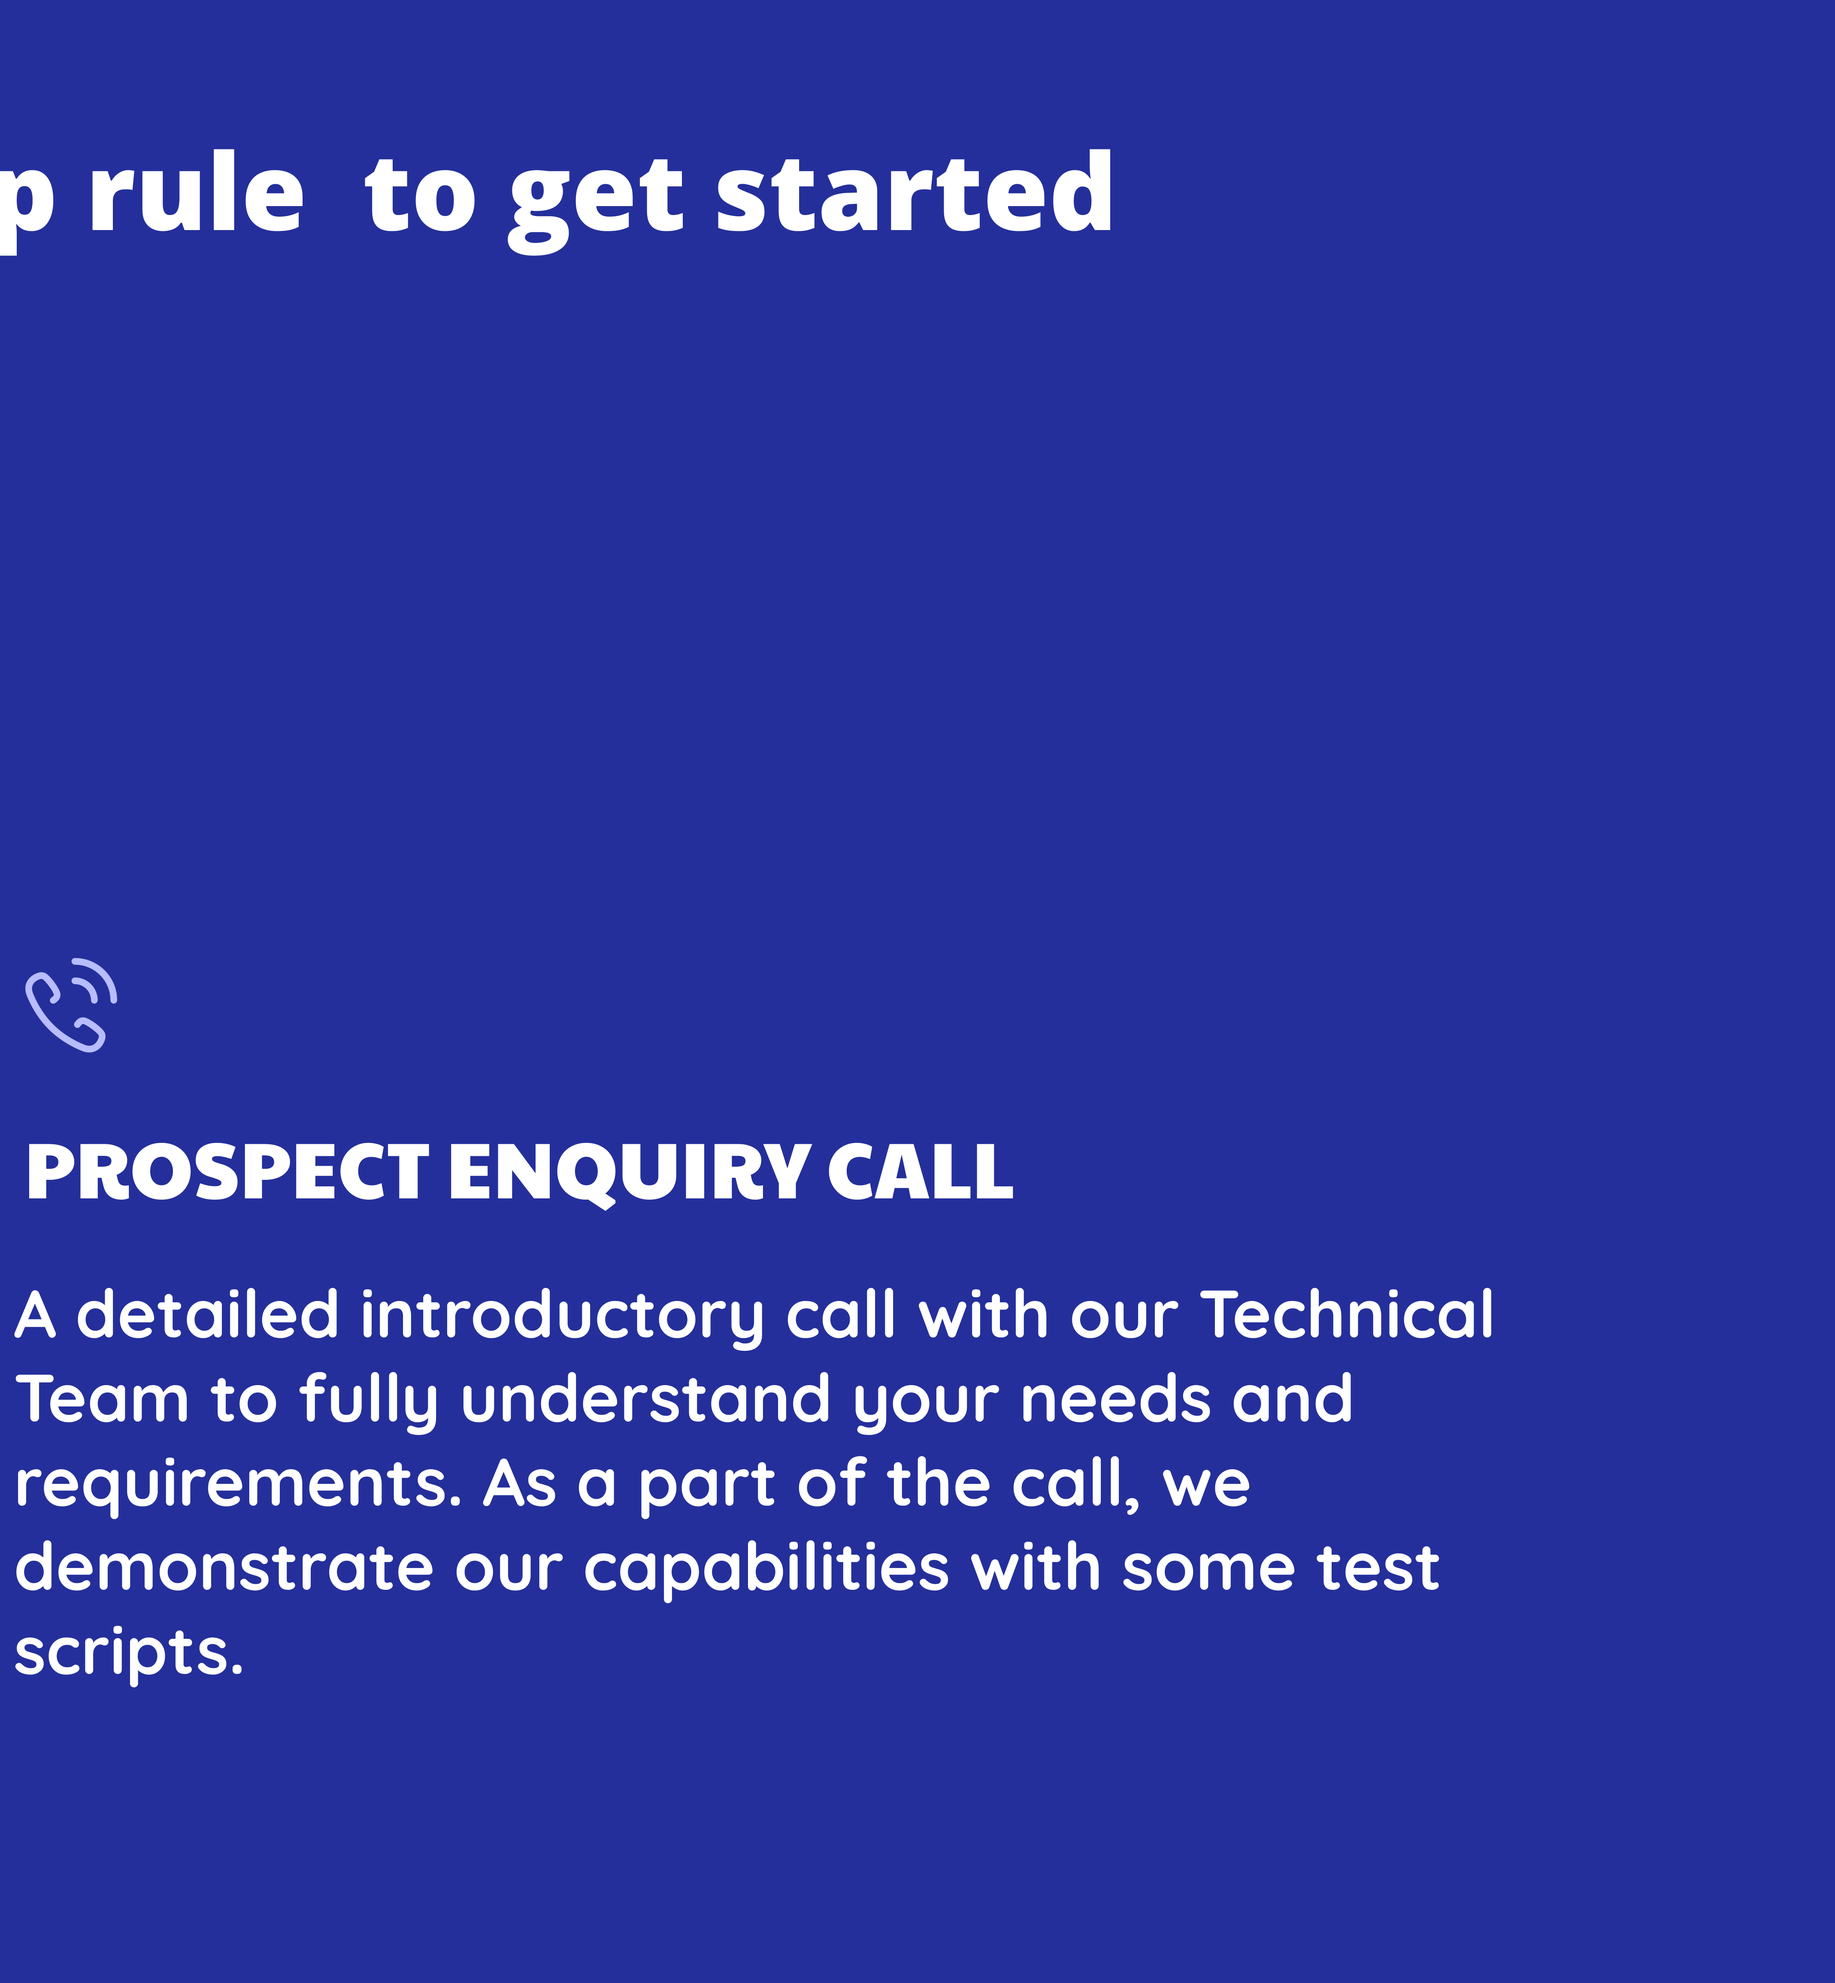
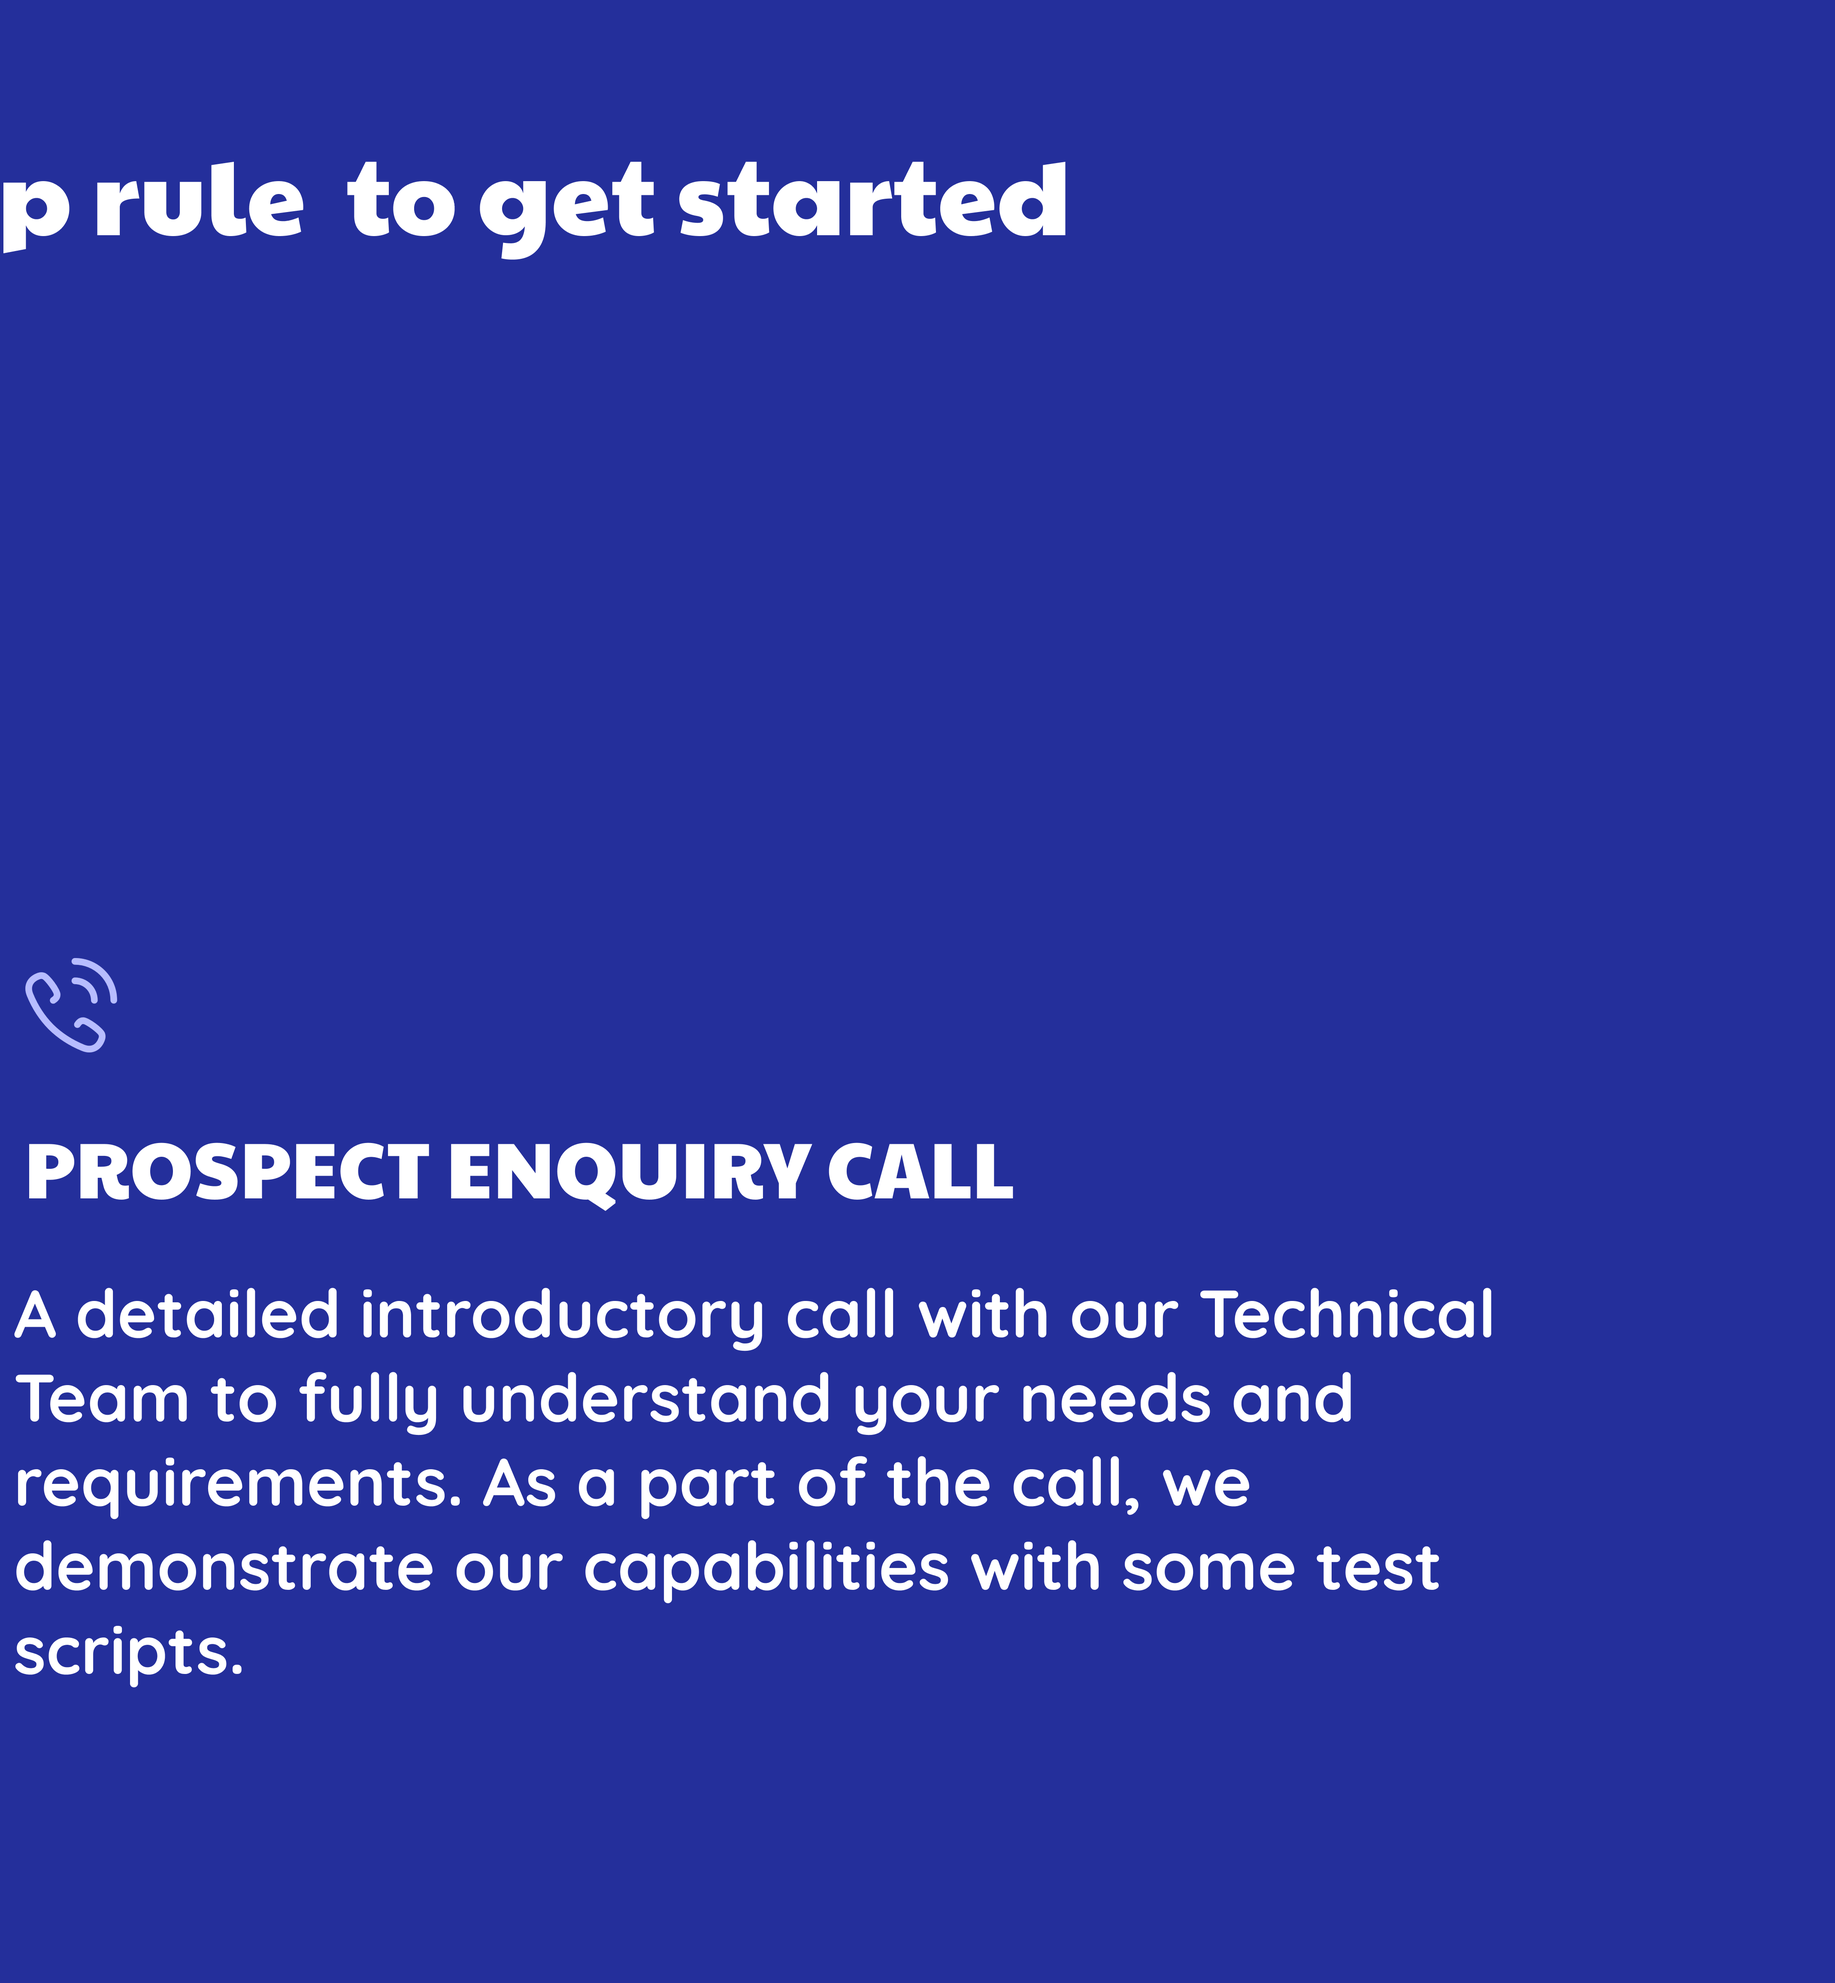
testing page

Changed region(s): [[0.1866, 0.0623, 0.6221, 0.1247], [0.0, 0.0623, 0.1555, 0.1247]]

diff --git a/themes/he/layouts/_default/testing-services.html b/themes/he/layouts/_default/testing-services.html
@@ -9,8 +9,8 @@
           <img loading="lazy" class="w-100" src="{{ .Params.section1.image | absURL }}" alt="Testing-services" />
         </div>
       </div>
-      <div class="col-12 col-md-5 my-md-auto my-4" data-aos="fade-in" data-aos-delay="300" data-aos-duration="1000">
-        <h2 class="section-title">{{ .Params.section1.heading }}</h2>
+      <div class="col-12 col-md-6 my-md-auto my-4" data-aos="fade-in" data-aos-delay="300" data-aos-duration="1000">
+                <h2 class="section-title">{{ .Params.section1.heading }}</h2>
         <p class="my-2">{{ .Params.section1.content }}</p>
         <button class="btn btn-secondary my-3">Join Our Team</button>
       </div>
@@ -189,10 +189,6 @@
     /* ts - test services */
     #footer-top-section {
       display: none;
-    }
-
-    .btn.btn-primary.scroll-to-top-btn {
-      background-color: rgb(36 47 155/95%) !important;
     }
 
     .ts-primary-color {

diff --git a/content/english/testing-services.md b/content/english/testing-services.md
@@ -1,7 +1,7 @@
 ---
 custom_title_enabled: true
 custom_title_value: "Custom web & Cross platform mobile application development services"
-title: "Custom Software Development Services"
+title: "Testing Services"
 description: "Get custom-tailored web application and cross platform mobile application developed by one of the best team in spritle.We offer End-to-End development services."
 keywords : [Custom web application development services,Cross platform mobile app development services]
 
@@ -28,10 +28,8 @@ draft: false
 
 # main content
 section1:
-  heading: "We solve quality problems We solve quality problems"
-  content: "Lorem ipsum dolor sit amet consectetur adipiscing elit. Nunc
-    maximus, nulla ut commodo sagittis, sapien dui mattis dui, non pulvinar
-    lorem felis ner erat"
+  heading: "Spritle Software Testing Service"
+  content: "We ensure that software completely satisfies user expectations and requirement specifications. To help our customers provide high-quality software quickly, we provide a wide range of QA services within real-time time limitations. We use the best software testing methodologies and applications, and top-tier software testing labs to deliver on our promise of Quality Engineering, Quality Assurance, and Digital Assurance."
   image: "images/testing-services/testing-service-cover.webp"
 
 section2:
@@ -45,7 +43,7 @@ section2:
 section3:
   mobile_image: "/images/testing-services/main.png"
   images:
-    - "/images/testing-services/1.png"
+    - "/images/testing-services/first.png"
     - "/images/testing-services/2.png"
     - "/images/testing-services/3.png"
     - "/images/testing-services/4.png"
@@ -114,7 +112,7 @@ section6:
   blogs:
     - id: 100
       link: 'https://www.spritle.com/blogs/2022/05/06/vulnerabilities-in-your-daily-life-mobile-applications/'
-      image: 'crohttps://www.spritle.com/blogs/wp-content/uploads/2022/05/vulnerability-mobile-app-feature.png'
+      image: 'https://www.spritle.com/blogs/wp-content/uploads/2022/05/vulnerability-mobile-app-feature.png'
       title: 'Vulnerabilities in your daily life mobile applications'
       desc: 'Well, let’s get these straight, mobile applications are now something we use in our day-to-day lives. For example, for booking cabs, we use applications...'
       author_link: 'https://www.spritle.com/blogs/author/vaashinisakthivel/'
